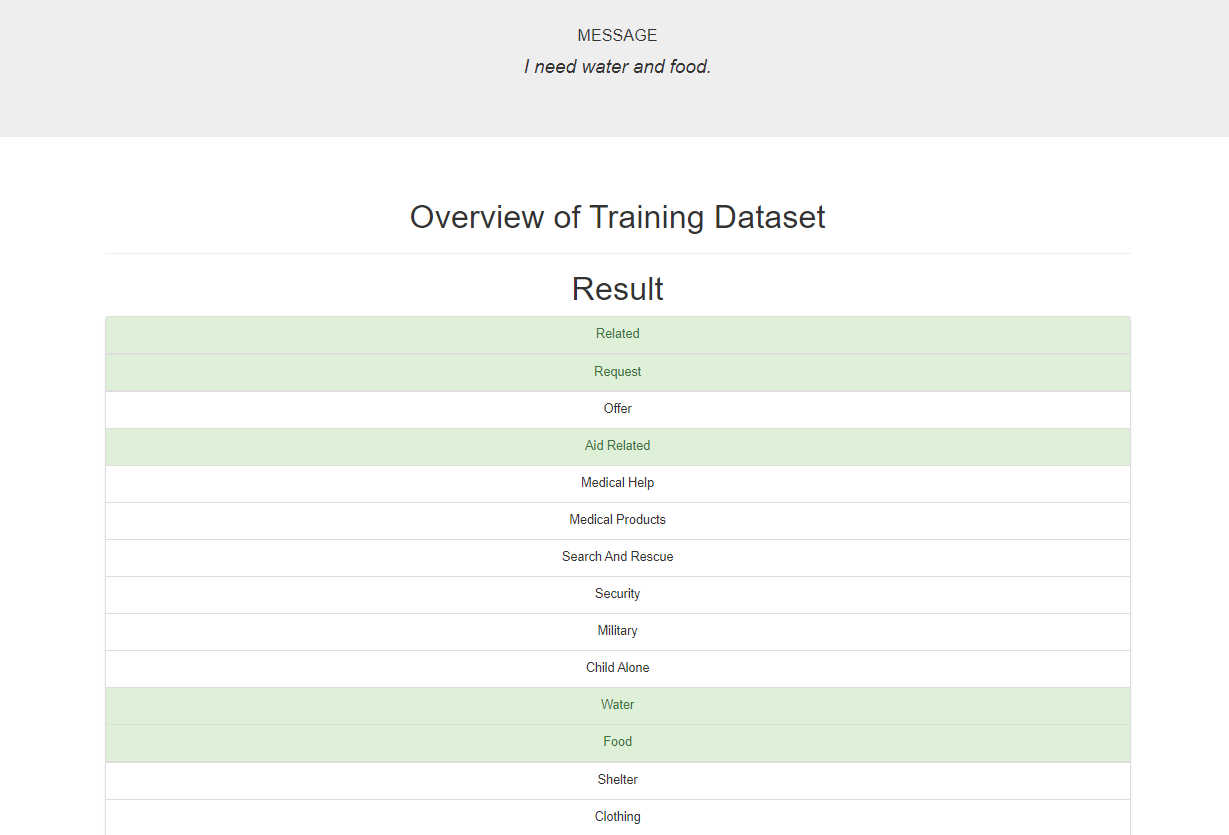
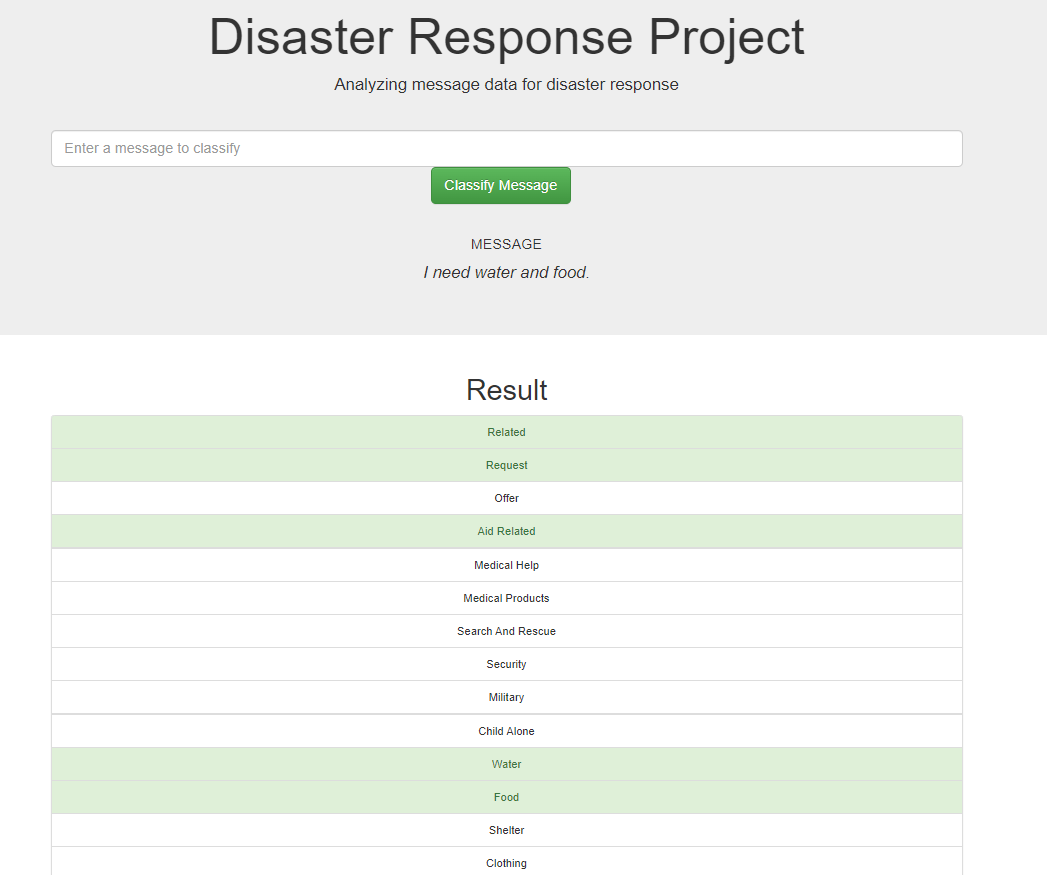
Fix display issue: hide dataset and performance overview titles on result page

Changed region(s): [[0.0306, 0.1868, 0.9169, 0.9964], [0.1834, 0.0, 0.7641, 0.1246], [0.0611, 0.1557, 0.2445, 0.1868]]

diff --git a/app/templates/master.html b/app/templates/master.html
@@ -53,9 +53,11 @@
 </div>
 
 <div class="container">
+    {% if not results_page %}
     <div class="page-header">
         <h1 class="text-center">Overview of Training Dataset</h1>
     </div>
+    {% endif %}
 
     {% block content %}
     {% endblock %}
@@ -68,9 +70,11 @@
 </div>
 
 <div class="container">
+    {% if not results_page %}
     <div class="page-header">
         <h1 class="text-center">Overview of Model Performance</h1>
     </div>
+    {% endif %}
 
     {% for id in ids %}
         {% if id.startswith("performance-") %}

diff --git a/app/run.py b/app/run.py
@@ -204,7 +204,7 @@ def index():
 
     # Render web page with plotly graphs
     return render_template('master.html', ids=graph_ids + performance_ids,
-                           graphJSON=graphJSON)
+                           graphJSON=graphJSON, results_page=False)
 
 
 @app.route('/go')
@@ -224,7 +224,8 @@ def go():
     return render_template(
         'go.html',
         query=query,
-        classification_result=classification_results
+        classification_result=classification_results,
+        results_page=True
     )
 
 
